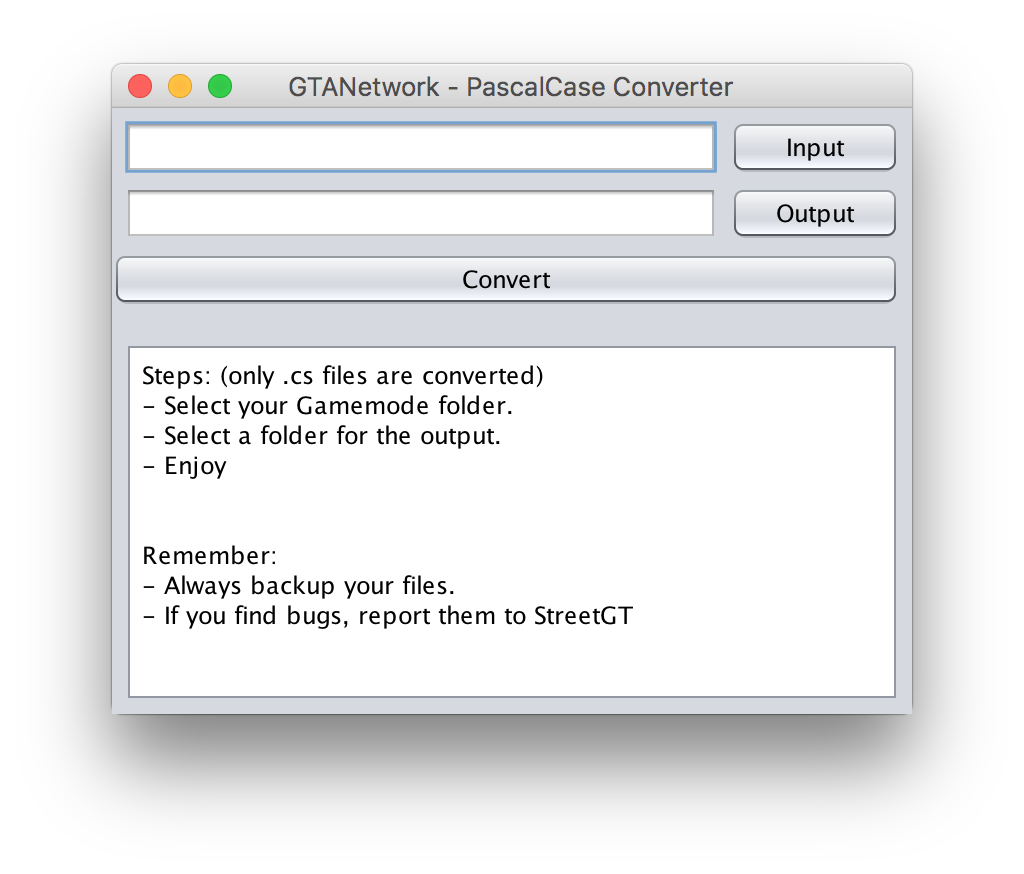
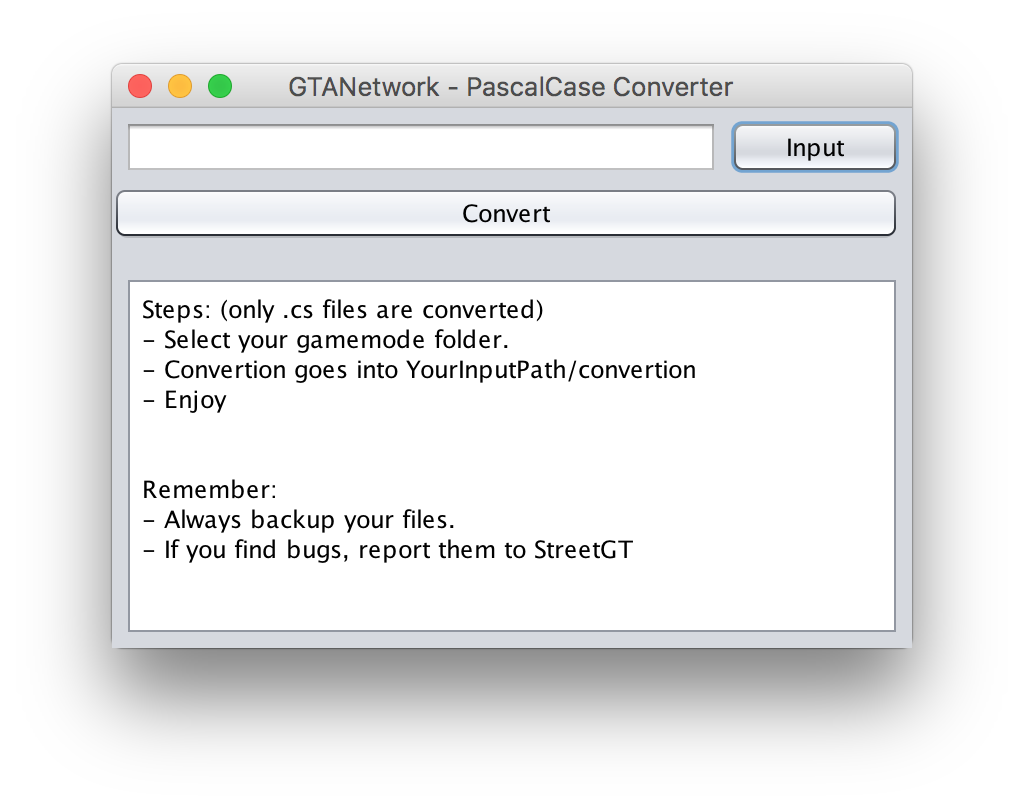
Update README.md

Changed region(s): [[0.0938, 0.0619, 0.875, 0.5569], [0.0938, 0.7735, 0.9062, 0.8354], [0.125, 0.5879, 0.625, 0.7426]]

diff --git a/README.md b/README.md
@@ -2,10 +2,17 @@
 
 Application for convert C# files that uses the old API camelCase syntax into PascalCase syntax.
 
+# Instructions
+
+ 1. Before execute always backup your files;
+ 2. Select your gamemode folder;
+ 3. Press Convert
+
+The files are now available under YourInputPath/convertion
+
 # Screenshots
 
 **Application**  
 <img src="https://github.com/tiagocardosoweb/GTANetwork_PascalCase/blob/master/Screenshots/Application1.png" width="500"/>
   
 <img src="https://github.com/tiagocardosoweb/GTANetwork_PascalCase/blob/master/Screenshots/Application2.png" width="500"/>
-
